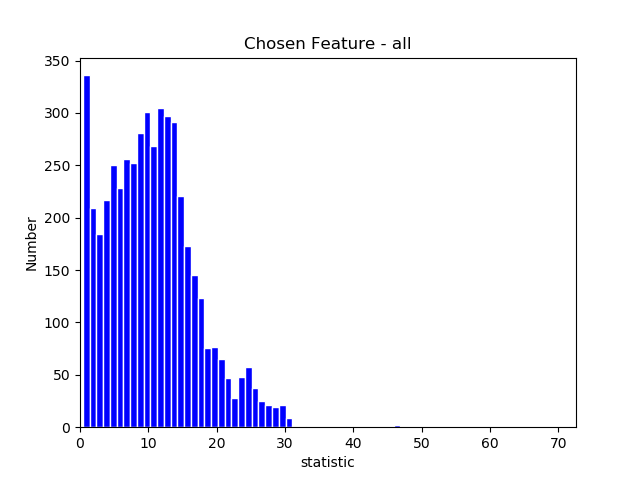
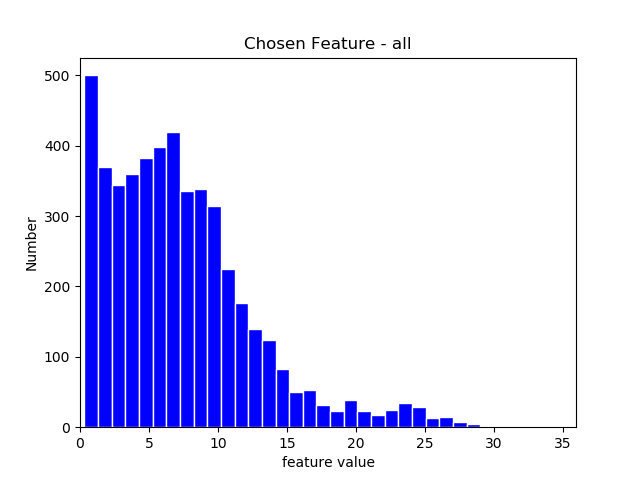
Time: 2019-09-20 21:31:27

Changed region(s): [[0.0625, 0.0938, 0.75, 1.0], [0.8438, 0.9062, 0.9062, 0.9375], [0.75, 0.9062, 0.7812, 0.9375]]

diff --git a/3_histClustering.py b/3_histClustering.py
@@ -6,7 +6,7 @@
 @Github: https://github.com/isLouisHsu
 @E-mail: is.louishsu@foxmail.com
 @Date: 2019-09-19 21:22:25
-@LastEditTime: 2019-09-20 20:45:31
+@LastEditTime: 2019-09-20 21:23:01
 @Update: 
 '''
 import os
@@ -15,6 +15,8 @@ from matplotlib import pyplot as plt
 from sklearn.cluster import KMeans
 from sklearn.externals import joblib
 from sklearn.mixture import GaussianMixture
+
+from params import deleteClassIndex
 
 n_components = input("Please enter the number of components(default 6): ")
 n_components = 6 if n_components == '' else int(n_components)
@@ -65,12 +67,12 @@ plt.savefig("images/3_maxSpeed_geq_30_sequences.png")
 # ------------------------------------------------------------
 ## 构造统计量，统计其长度直方图、与各类别的长度直方图
 def getStatistic(features):
-    return features[:, 0]
+    return features[:, 1]
 
 statistic = getStatistic(features)
 plt.figure()
 plt.title("Chosen Feature - all")
-plt.xlabel("statistic")
+plt.xlabel("feature value")
 plt.ylabel("Number")
 plt.xlim(0, statistic.max())
 # plt.ylim(0, 350)
@@ -83,7 +85,7 @@ for i in range(n_classes):
     subStatistic = getStatistic(features[y == i])
     plt.subplot(n_classes, 1, i + 1)
     if i == n_classes - 1:
-        plt.xlabel("statistic")
+        plt.xlabel("feature value")
     plt.ylabel("Number - class %d" % i)
     plt.xlim(0, statistic.max())
     # plt.ylim(0, 250)
@@ -91,8 +93,7 @@ for i in range(n_classes):
 plt.savefig("images/3_feat_hist_subseq.png")
 
 # ------------------------------------------------------------
-## 删除两种多余的运动学片段，重新计算标签
-deleteClassIndex = [3, 5, 6, 7]   # TODO:
+## 删除部分类别的运动学片段，重新计算标签
 index = np.ones(features.shape[0], dtype=np.bool)
 for idx in deleteClassIndex:
     idx = y != idx
@@ -103,7 +104,6 @@ pipeline.set_params(kmeans__n_clusters=n_clusters - len(deleteClassIndex))
 y = pipeline.fit_predict(features)
 n_classes = len(set(y))
 
-# ------------------------------------------------------------
 ## 绘制高斯混合模型曲线
 gmm = GaussianMixture(n_components=n_classes)
 gmm.fit(statistic.reshape(-1, 1))
@@ -111,7 +111,7 @@ n, bins = np.histogram(statistic, bins=int(statistic.max() - statistic.min()) + 
 bins = np.r_[0, bins]
 plt.figure()
 plt.title("Chosen Feature - GMM")
-plt.xlabel("statistic")
+plt.xlabel("feature value")
 # plt.ylim(0, 0.02)
 plt.ylabel("P")
 for i in range(n_classes):

diff --git a/4_splitSpeedIntercal.py b/4_splitSpeedIntercal.py
@@ -6,13 +6,16 @@
 @Github: https://github.com/isLouisHsu
 @E-mail: is.louishsu@foxmail.com
 @Date: 2019-09-20 11:07:51
-@LastEditTime: 2019-09-20 21:04:44
+@LastEditTime: 2019-09-20 21:28:57
 @Update: 
 '''
 import os
 import numpy as np
 from matplotlib import mlab
 from matplotlib import pyplot as plt
+from sklearn.externals import joblib
+
+from params import deleteClassIndex, featLandmarks
 
 sequences = []
 features = []
@@ -23,15 +26,24 @@ sequences = np.concatenate(sequences, axis=0)
 features  = np.concatenate(features,  axis=0)
 
 # ------------------------------------------------------------------------------------
-index = 0
-feat      = features[:, index]                              # 最大速度(m/s)
-index     = np.argsort(feat)
+## 删除异常类别的样本
+n_components = input("Please enter the number of components(default 6): ")
+n_components = 6 if n_components == '' else int(n_components)
+n_clusters   = input("Please enter the number of clusters  (default 8): ")
+n_clusters   = 8 if n_clusters == '' else int(n_clusters)
+pipeline = joblib.load("output/model_pca%d_kmeans%d.pkl" % (n_components, n_clusters))
+y = pipeline.predict(features)
+index = np.ones(features.shape[0], dtype=np.bool)
+for idx in deleteClassIndex:
+    idx = y != idx
+    index = np.bitwise_and(index, idx)
 sequences = sequences[index]
 features  = features [index]
 
 # ------------------------------------------------------------------------------------
+index = 0
+feat      = features[:, index]                              # 最大速度(m/s)
 totalTime = 1200.
-featLandmarks = [7, 15]   # TODO:
 sumRunTime = np.sum(features[:, 3])                         # 运行时间(s)
 
 # ------------------------------------------------------------------------------------

diff --git a/1_preprocessing.py b/1_preprocessing.py
@@ -6,7 +6,7 @@
 @Github: https://github.com/isLouisHsu
 @E-mail: is.louishsu@foxmail.com
 @Date: 2019-09-19 11:01:14
-@LastEditTime: 2019-09-20 20:21:54
+@LastEditTime: 2019-09-20 21:25:28
 @Update: 
 '''
 import os
@@ -16,9 +16,8 @@ import pandas as pd
 import matplotlib.pyplot as plt
 import pywt
 
+from params import IDLETHRESH, MAXSPEEDTHRESH, MAXACCABS, MINTIME, MINRUNTIME
 from dwt_signal_decomposition import plot_signal_decomp, dwtDecompose
-
-IDLETHRESH = 1.
 
 def timestamp2unix(timestamp):
     """
@@ -152,11 +151,6 @@ def calFeaturesOfSequence(seq, speedThresh=IDLETHRESH, maxIdle=180, dwtTime=1):
     
     feature = np.array(feature)
     return feature
-
-MAXSPEEDTHRESH = 5.
-MAXACCABS  = 17
-MINTIME    = 15
-MINRUNTIME = 4
 
 if __name__ == "__main__":
 

diff --git a/params.py b/params.py
@@ -1,0 +1,19 @@
+# -*- coding: utf-8 -*-
+'''
+@Description: 
+@Version: 1.0.0
+@Author: louishsu
+@Github: https://github.com/isLouisHsu
+@E-mail: is.louishsu@foxmail.com
+@Date: 2019-09-20 21:22:41
+@LastEditTime: 2019-09-20 21:30:55
+@Update: 
+'''
+IDLETHRESH = 1.
+MAXSPEEDTHRESH = 5.
+MAXACCABS  = 17
+MINTIME    = 15
+MINRUNTIME = 4
+
+deleteClassIndex = [1, 3, 5, 6, 7]   # TODO:
+featLandmarks = [7, 15]   # TODO:
